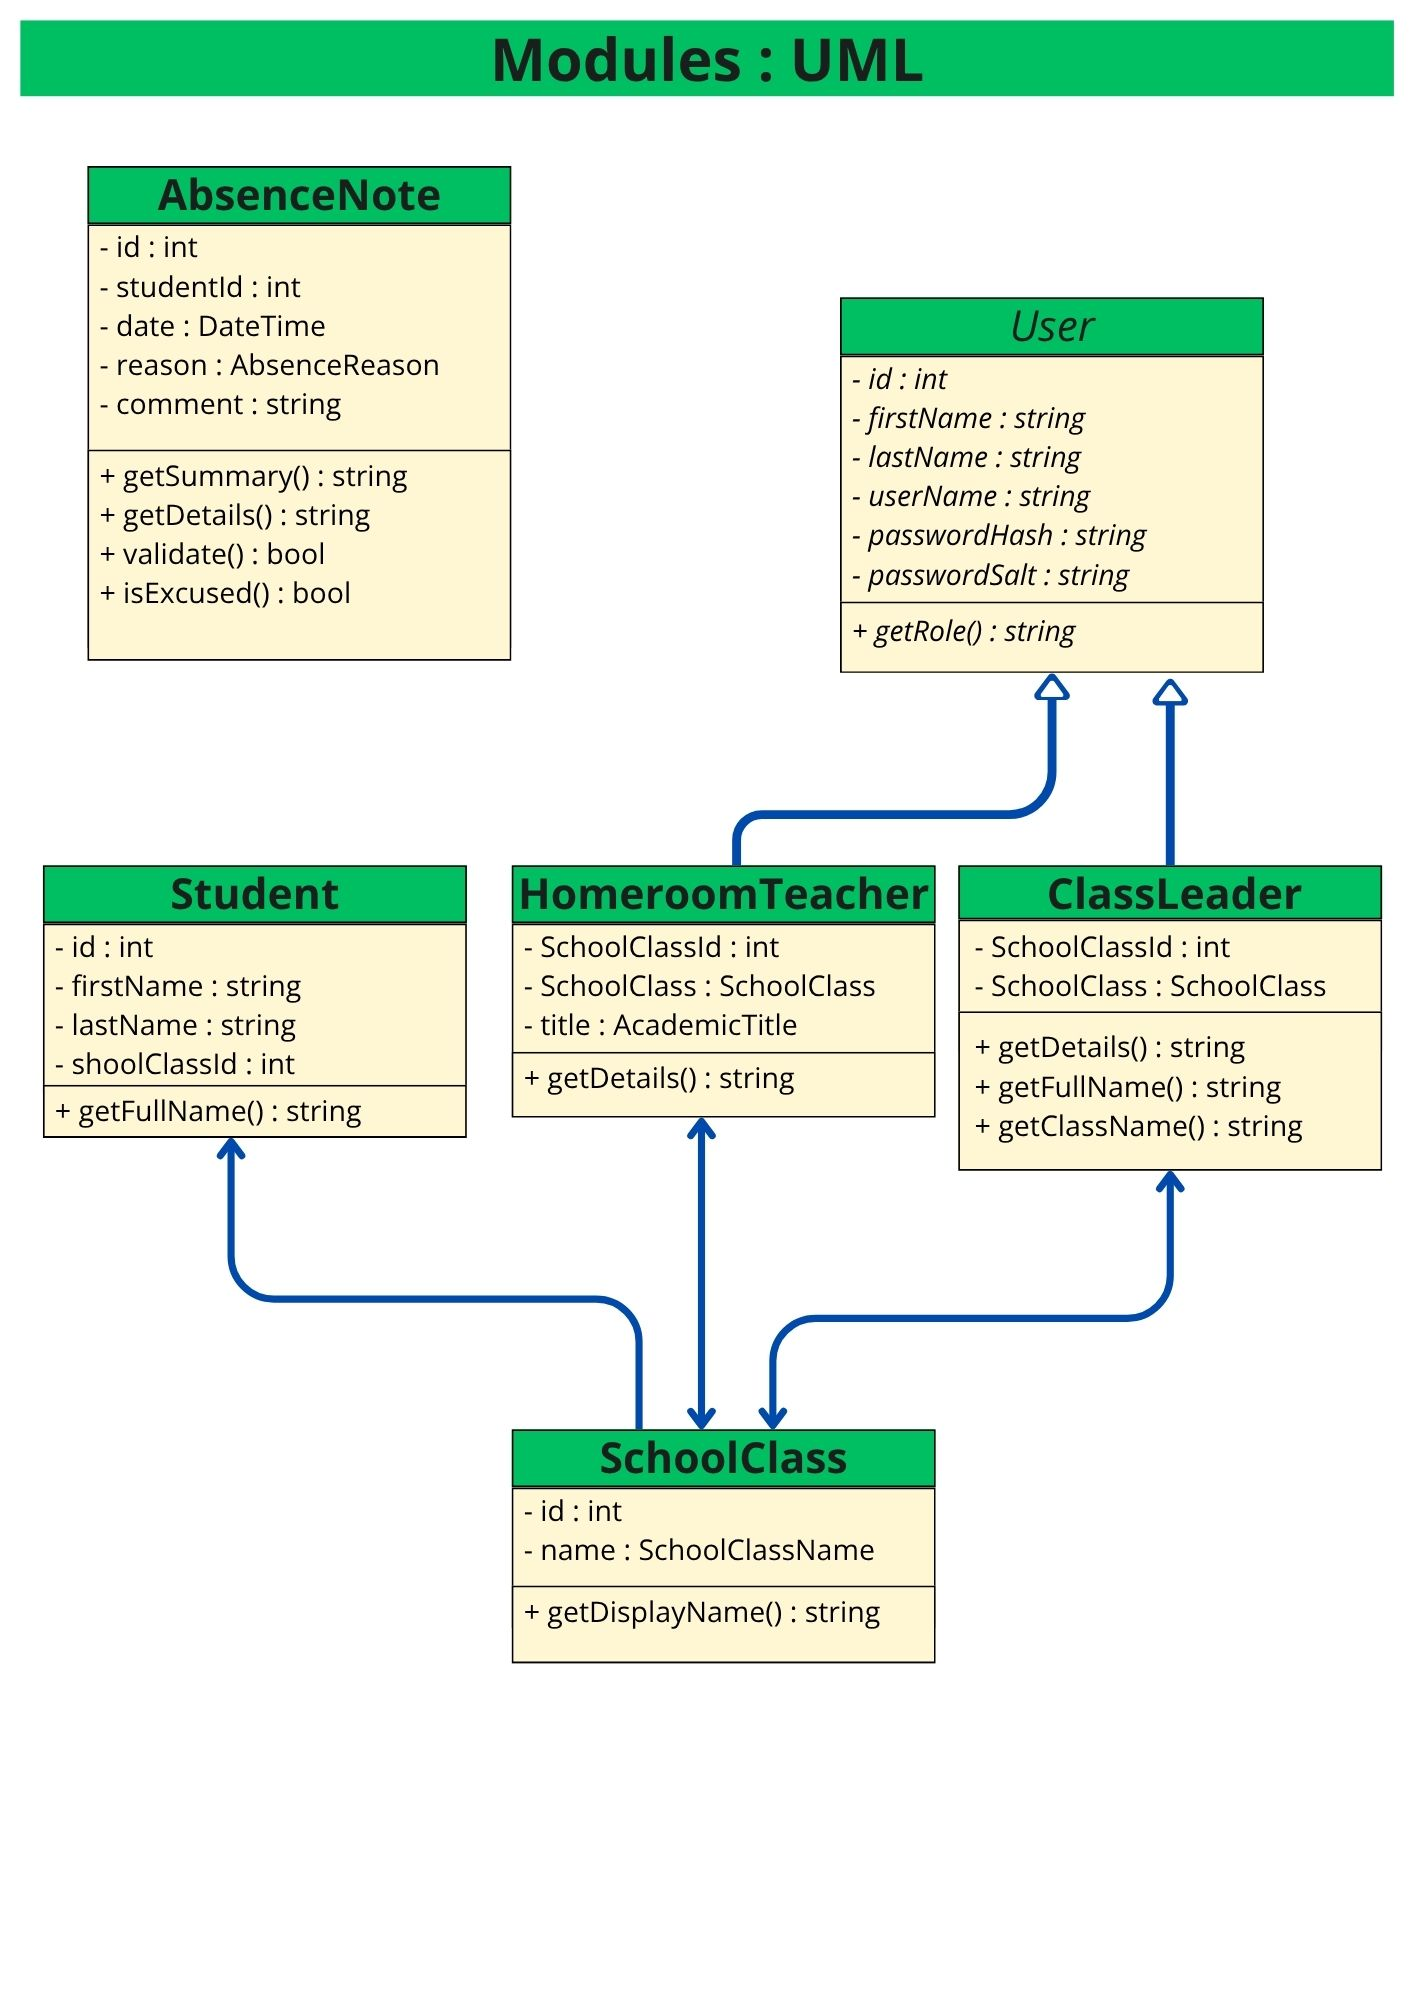
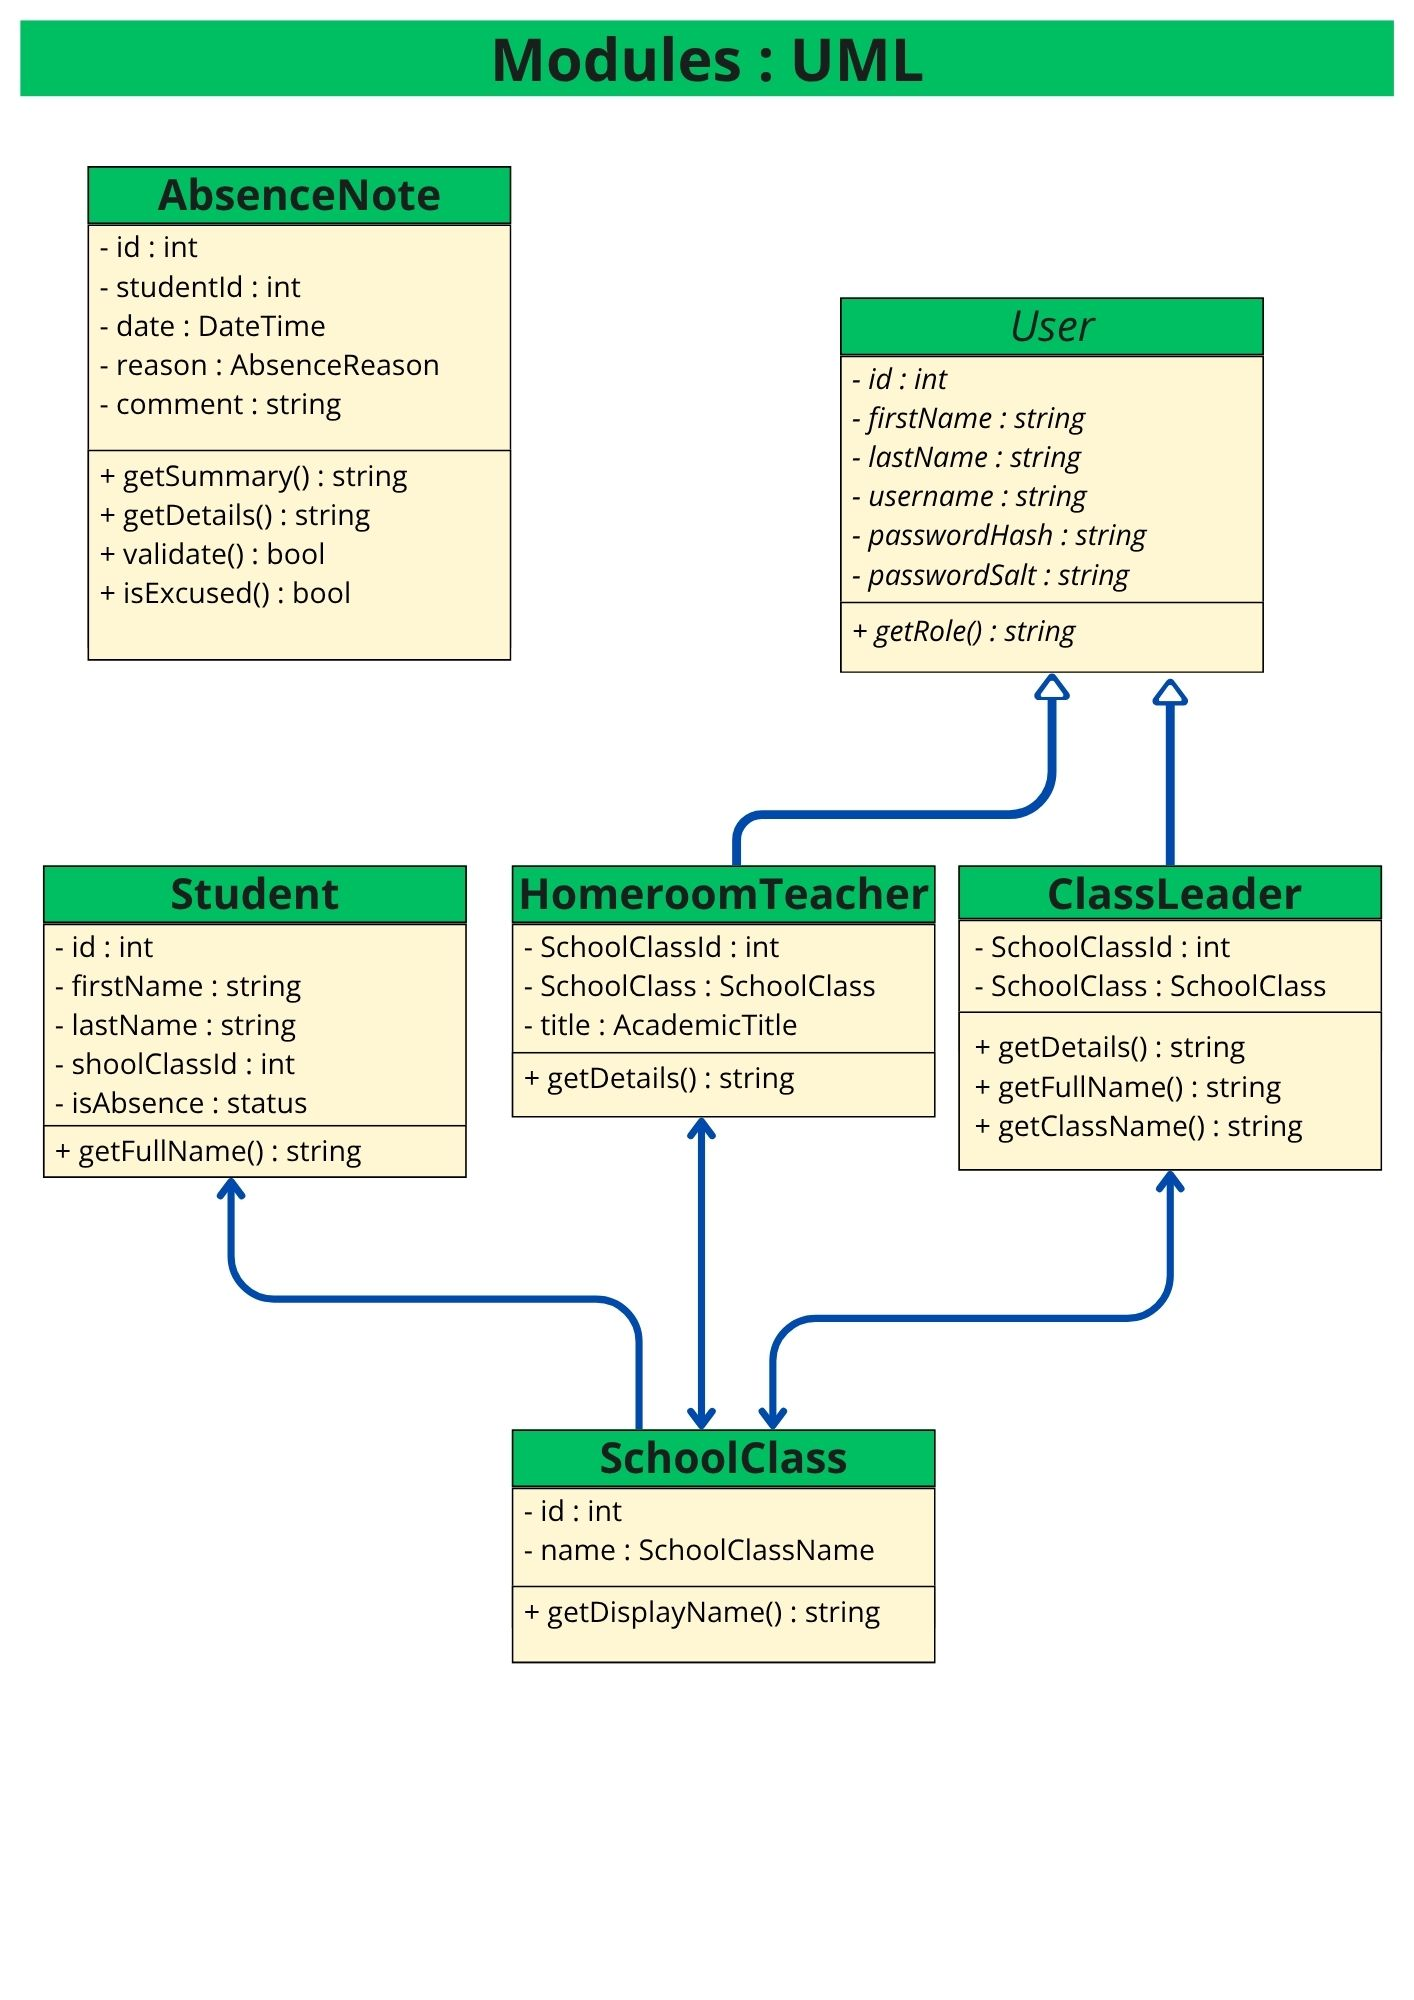
docs: add student and user API documentation, update services UML

Changed region(s): [[0.0311, 0.527, 0.3423, 0.62], [0.7157, 0.248, 0.7779, 0.279], [0.6535, 0.248, 0.6846, 0.279]]

diff --git a/docs/api/endpoints/student.md b/docs/api/endpoints/student.md
@@ -1,0 +1,158 @@
+### GET /api/student/
+
+**Response 200:**
+```json
+[
+    {
+        "id": 1,
+        "firstName": "Anna",
+        "lastName": "Müller",
+        "schoolClassId": 3,
+        "absenceStatus": "Present",
+        "fullName": "Anna Müller"
+    },
+    {
+        "id": 2,
+        "firstName": "Marko",
+        "lastName": "Ivanov",
+        "schoolClassId": 3,
+        "absenceStatus": "Absent",
+        "fullName": "Marko Ivanov"
+    },
+    ...
+]
+```
+
+**Response 500:**
+```json
+{
+  "status": 500,
+  "error": "Internal Server Error",
+  "message": "Internal server error. Our team has already been notified of the issue.",
+  "timestamp": "2026-06-30T13:47:00"
+}
+```
+
+
+### GET /api/student/{lastname}
+
+**Path parameters:**
+```text
+lastname - the student's last name used for the search
+type: string
+Required: Yes
+example: /api/student/Müller
+```
+
+**Response 200:**
+```json
+    {
+        "id": 1,
+        "firstName": "Anna",
+        "lastName": "Müller",
+        "schoolClassId": 3,
+        "absenceStatus": "Present",
+        "fullName": "Anna Müller"
+    }
+```
+
+**Response 404:**
+```json
+{
+  "status": 404,
+  "error": "Not Found",
+  "message": "Student with lastName 'Müller' was not found.",
+  "timestamp": "2026-06-30T13:47:00"
+}
+```
+
+**Response 500:**
+```json
+{
+  "status": 500,
+  "error": "Internal Server Error",
+  "message": "Internal server error. Our team has already been notified of the issue.",
+  "timestamp": "2026-06-30T13:47:00"
+}
+```
+
+
+### GET /api/student/{id}
+
+**Path parameters:**
+```text
+id - the student's id used for the search
+type: integer
+Required: Yes
+example: /api/student/1
+```
+
+
+**Response 200:**
+```json
+    {
+        "id": 1,
+        "firstName": "Anna",
+        "lastName": "Müller",
+        "schoolClassId": 3,
+        "absenceStatus": "Present",
+        "fullName": "Anna Müller"
+    }
+```
+
+**Response 404:**
+```json
+{
+  "status": 404,
+  "error": "Not Found",
+  "message": "Student with id '1' was not found.",
+  "timestamp": "2026-06-30T13:47:00"
+}
+```
+
+**Response 500:**
+```json
+{
+  "status": 500,
+  "error": "Internal Server Error",
+  "message": "Internal server error. Our team has already been notified of the issue.",
+  "timestamp": "2026-06-30T13:47:00"
+}
+```
+
+
+### GET /api/student/absence
+
+**Response 200:**
+
+```json
+[
+    {
+        "id": 1,
+        "firstName": "Anna",
+        "lastName": "Müller",
+        "schoolClassId": 3,
+        "absenceStatus": "Present",
+        "fullName": "Anna Müller"
+    },
+    {
+        "id": 2,
+        "firstName": "Marko",
+        "lastName": "Ivanov",
+        "schoolClassId": 3,
+        "absenceStatus": "Absent",
+        "fullName": "Marko Ivanov"
+    },
+    ...
+]
+```
+
+**Response 500:**
+```json
+{
+  "status": 500,
+  "error": "Internal Server Error",
+  "message": "Internal server error. Our team has already been notified of the issue.",
+  "timestamp": "2026-06-30T13:47:00"
+}
+```

diff --git a/docs/api/endpoints/user.md b/docs/api/endpoints/user.md
@@ -1,0 +1,109 @@
+### POST /api/auth/login
+
+**Request Body:**
+```text
+LoginRequest - an object containing login data
+Required: Yes
+example:
+{
+  username: "amüller",
+  password: "qwerty"
+}
+```
+
+**Response 200:**
+```json
+{
+  "id": 1,
+  "firstName": "Anna",
+  "lastName": "Müller",
+  "username": "amüller",
+}
+```
+
+**Response 404:**
+```json
+{
+  "status": 404,
+  "error": "Not Found",
+  "message": "User was not found.",
+  "timestamp": "2026-06-30T13:47:00"
+}
+```
+
+**Response 500:**
+```json
+{
+  "status": 500,
+  "error": "Internal Server Error",
+  "message": "Internal server error. Our team has already been notified of the issue.",
+  "timestamp": "2026-06-30T13:47:00"
+}
+```
+
+
+### POST /api/auth/classleader/signin
+
+**Request Body:**
+```text
+SigninRequest - an object containing data for signin
+Required: Yes
+example:
+{
+  firstname: "Anna",
+  lastname: "Müller",
+  password: "qwerty",
+  schoolclass: "1AD",
+  invitecode: "XH72KQ"
+}
+```
+
+**Response 400:**
+```json
+{
+  "status": 400,
+  "error": "Bad Request",
+  "message": "Invalid request data.",
+  "timestamp": "2026-06-30T13:47:00"
+}
+```
+
+**Response 401:**
+```json
+{
+  "status": 401,
+  "error": "Unauthorized",
+  "message": "Invalid password.",
+  "timestamp": "2026-06-30T13:47:00"
+}
+```
+
+**Response 403:**
+```json
+{
+  "status": 403,
+  "error": "Forbidden",
+  "message": "Invalid or expired invite code.",
+  "timestamp": "2026-06-30T13:47:00"
+}
+```
+
+**Response 409:**
+```json
+{
+  "status": 409,
+  "error": "Conflict",
+  "message": "Class leader already exists.",
+  "timestamp": "2026-06-30T13:47:00"
+}
+```
+
+**Response 500:**
+```json
+{
+  "status": 500,
+  "error": "Internal Server Error",
+  "message": "Internal server error. Our team has already been notified of the issue.",
+  "timestamp": "2026-06-30T13:47:00"
+}
+```

diff --git a/README.md b/README.md
@@ -35,10 +35,14 @@ SchoolAttendanceManager/
 |   ├── uml/
 |   |   ├── modules-uml.jpg
 |   |   ├── repository-uml.jpg
+|   |   ├── servises-uml.jpg
 |   |   └── schema-uml.jpg
 |   ├── erd/
 |   |   └── database_erd.jpg
 |   ├── api/
+|   |   └── endpoints/
+|   |   |   ├── student.md
+|   |   |   └── user.md
 |   └── DECISIONS.md
 ├─── src/
 |   ├── SAM.API

diff --git a/TASKS.md b/TASKS.md
@@ -23,6 +23,7 @@
 - [ ] dock
 - [ ] Core
 - [ ] repository uml
+- [ ] servise uml
 
 ## Done
 
